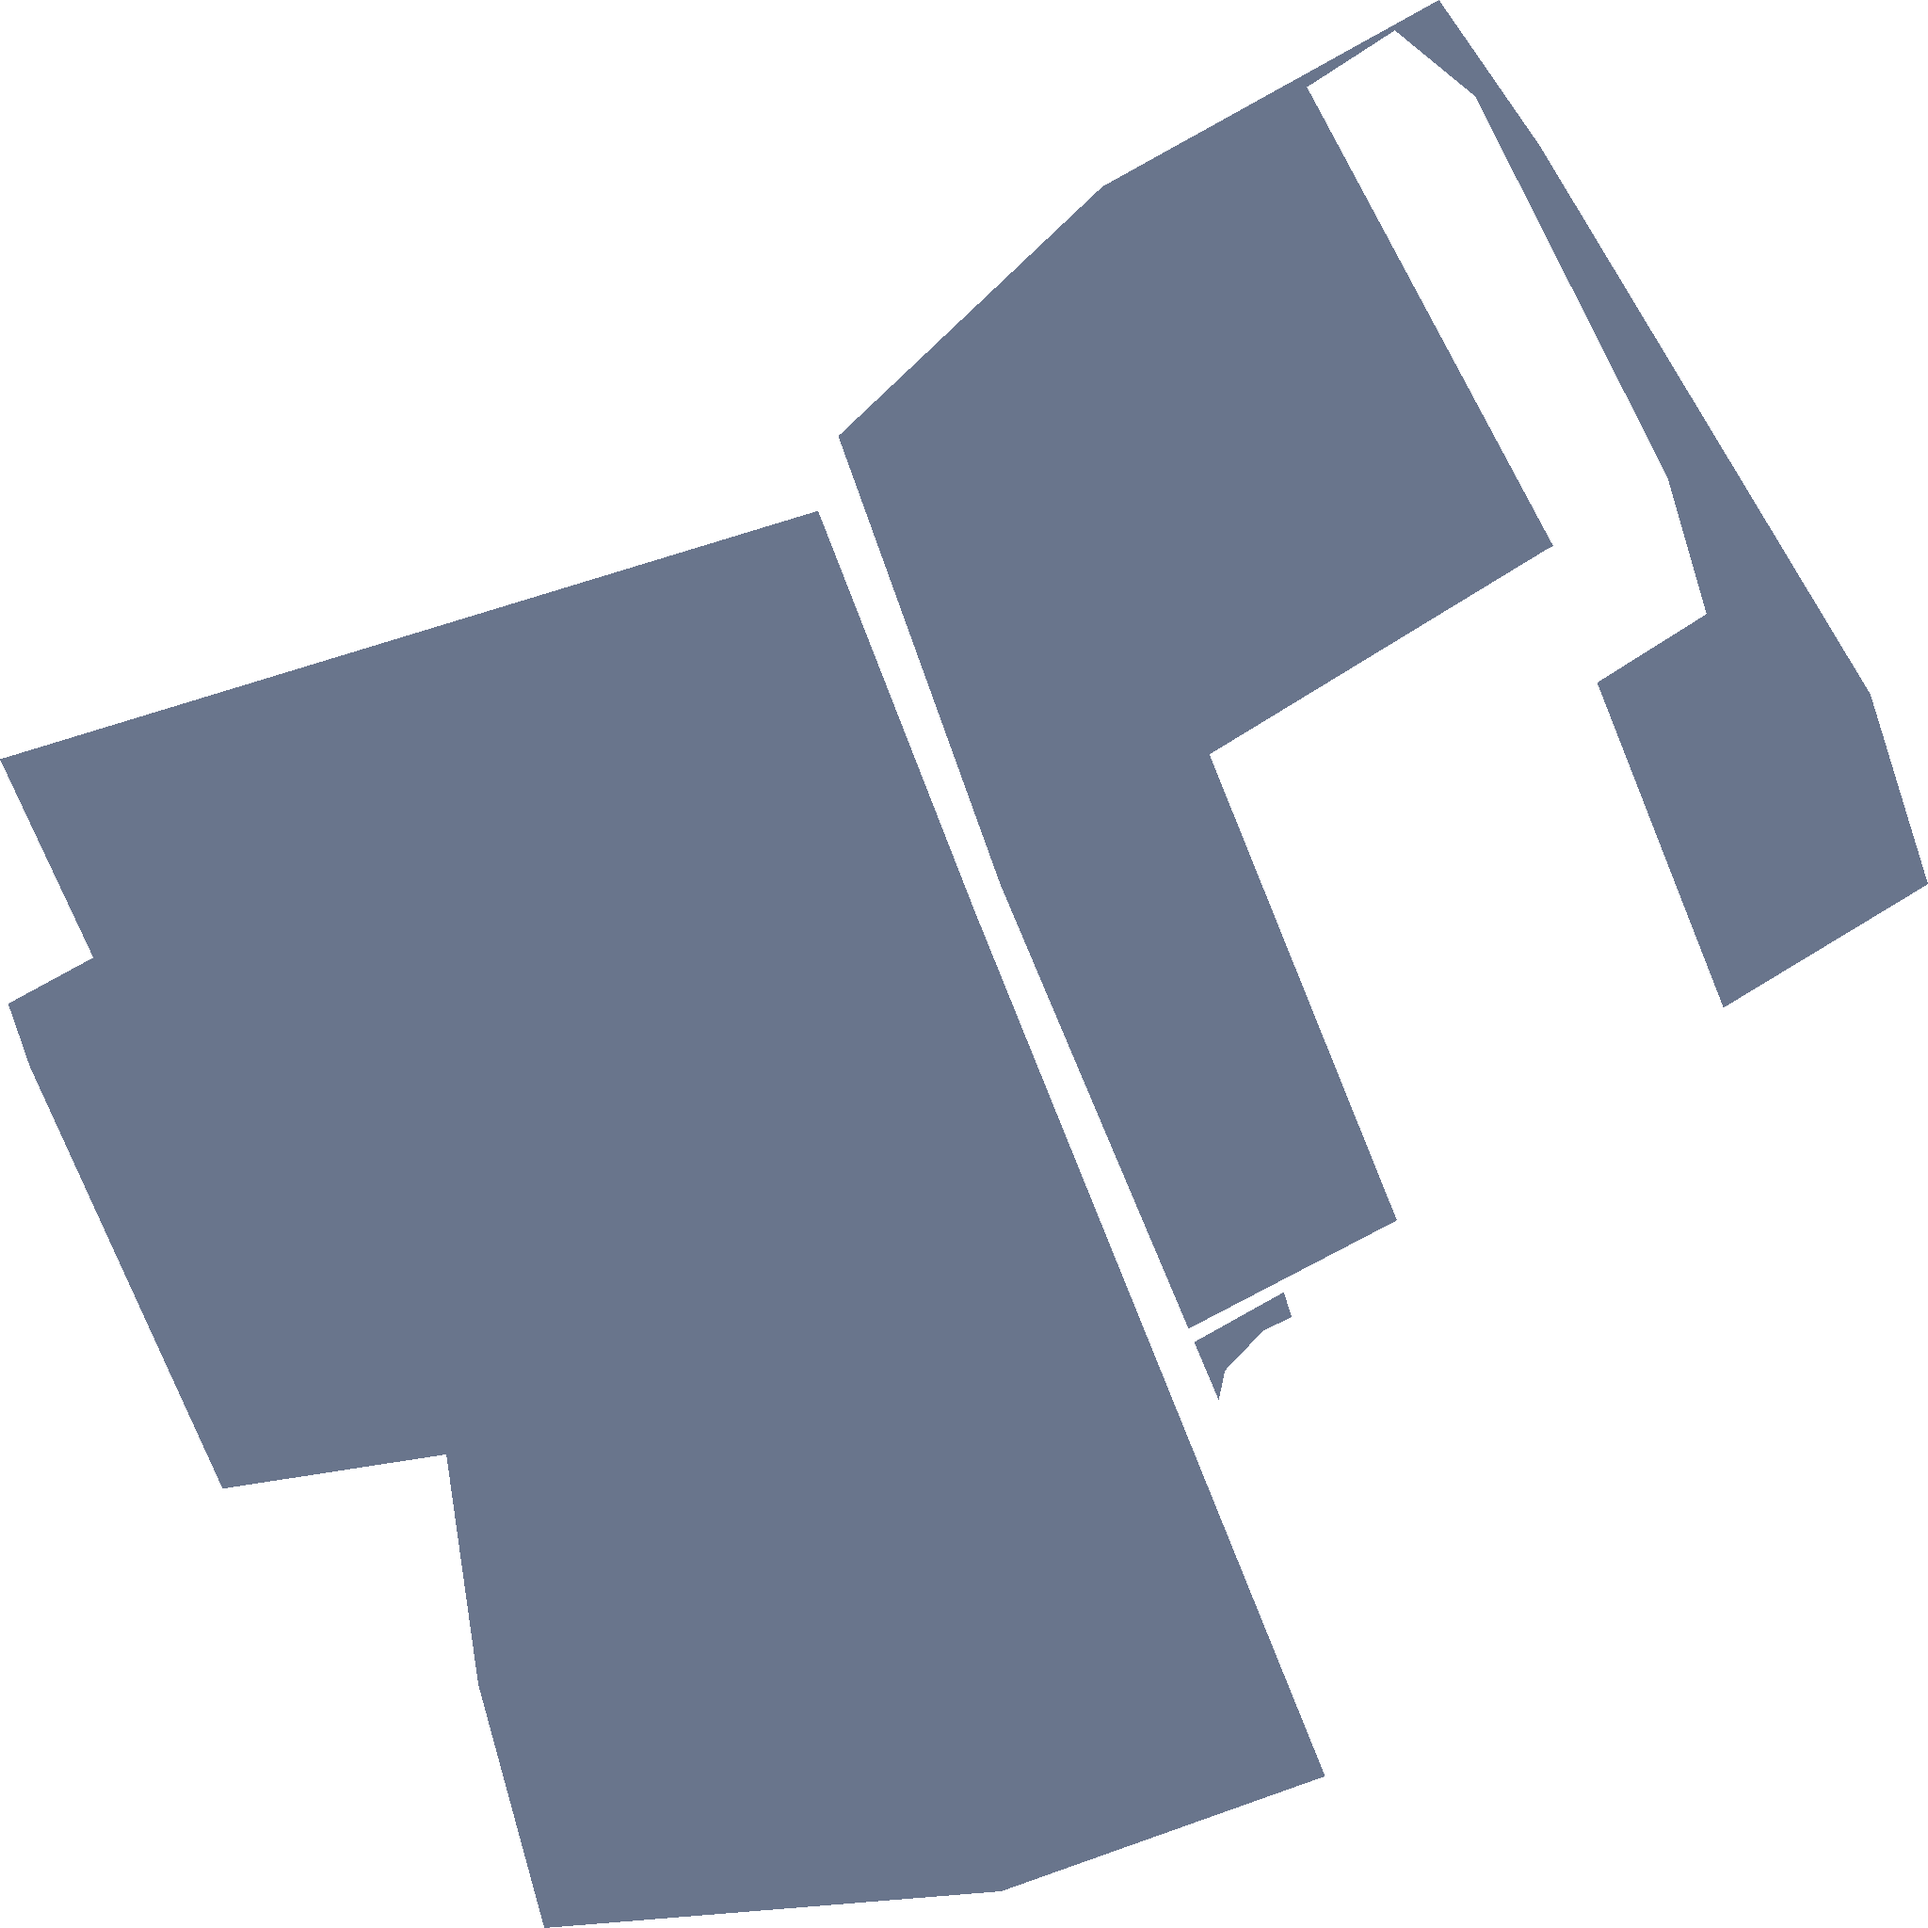
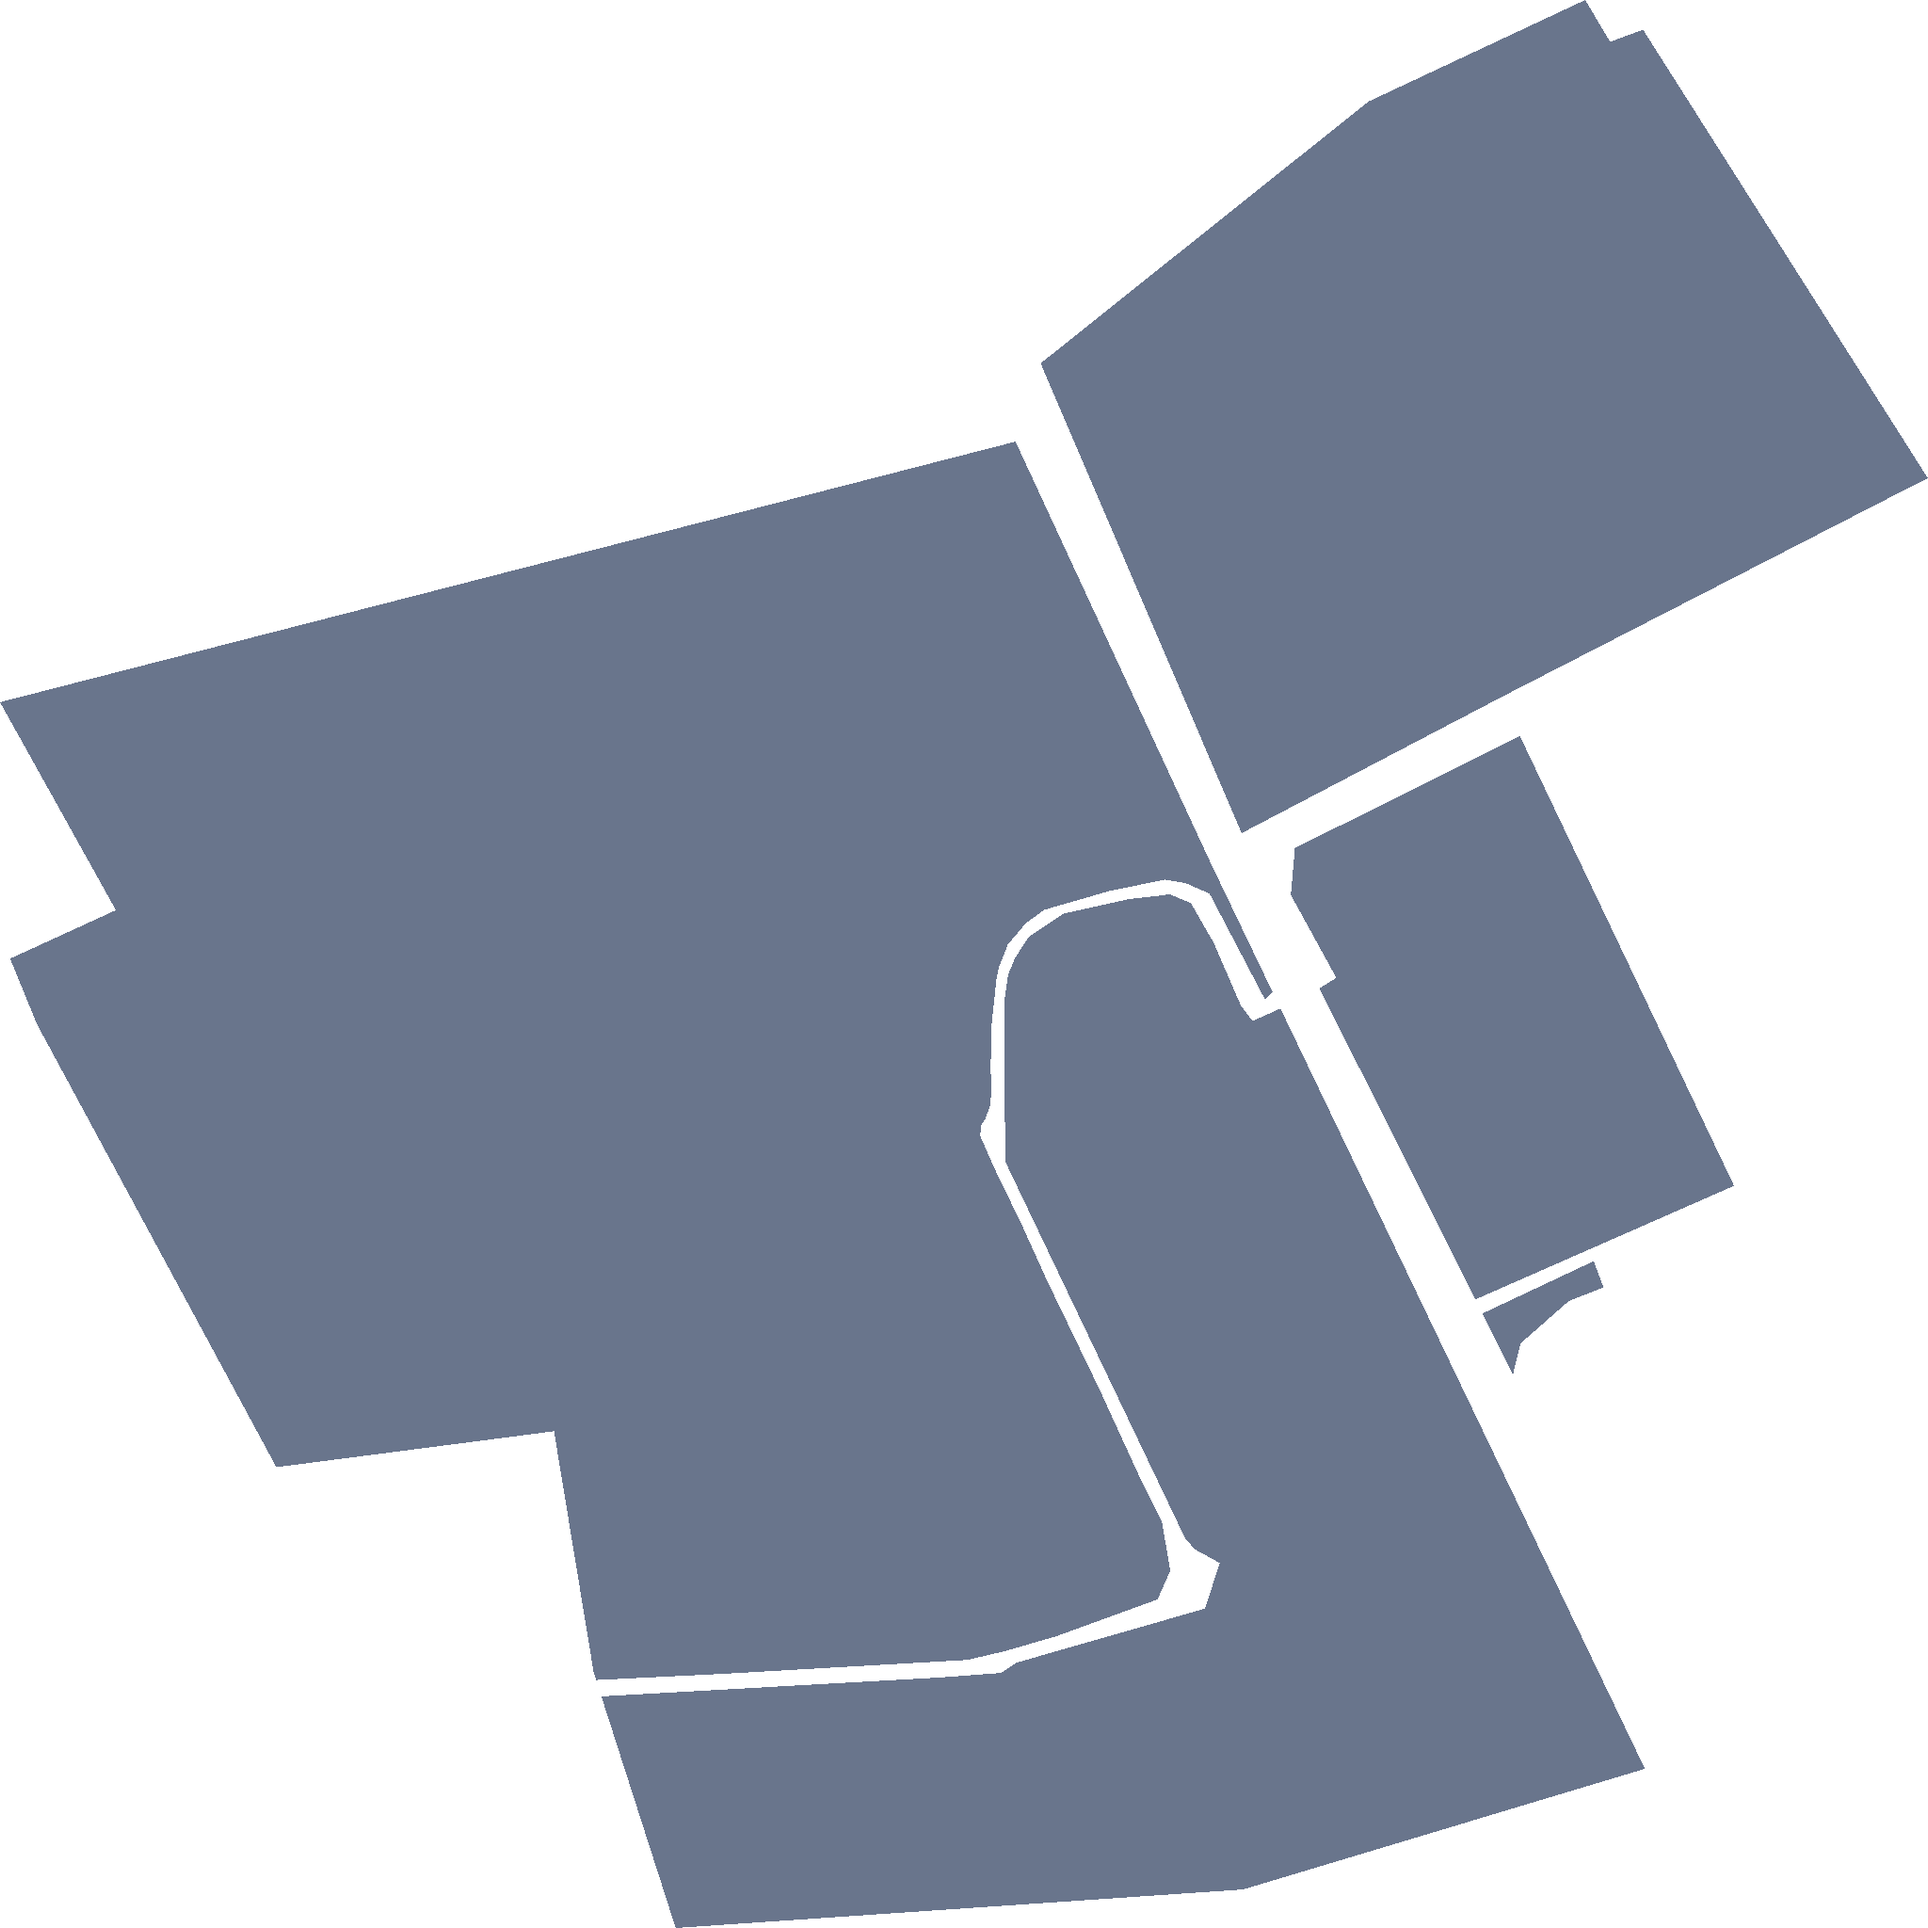
Karte sp_2045

Changed region(s): [[0.0, 0.0, 1.0, 1.0]]

diff --git a/sp_2045.html b/sp_2045.html
@@ -115,7 +115,7 @@
         <div><span style="display:inline-block;width:20px; height:10px; background:#FFC17D; margin-right:5px;"></span>Ausbauphase 3: Gefördertes Ausbaugebiet </div>
     </div>
     <script>
-    const bounds = [[49.166242818, 9.053726367], [49.170600373, 9.061383148]];
+    const bounds = [[49.166242818, 9.053726367], [49.170397439, 9.059894413]];
     const map = L.map('map', {zoomControl: false});
       map.fitBounds(bounds, {padding: [100, 100]});
        const maptiler = L.tileLayer('https://api.maptiler.com/maps/basic/{z}/{x}/{y}.png?key=hP74ooTG3ciBab5RShCg',
